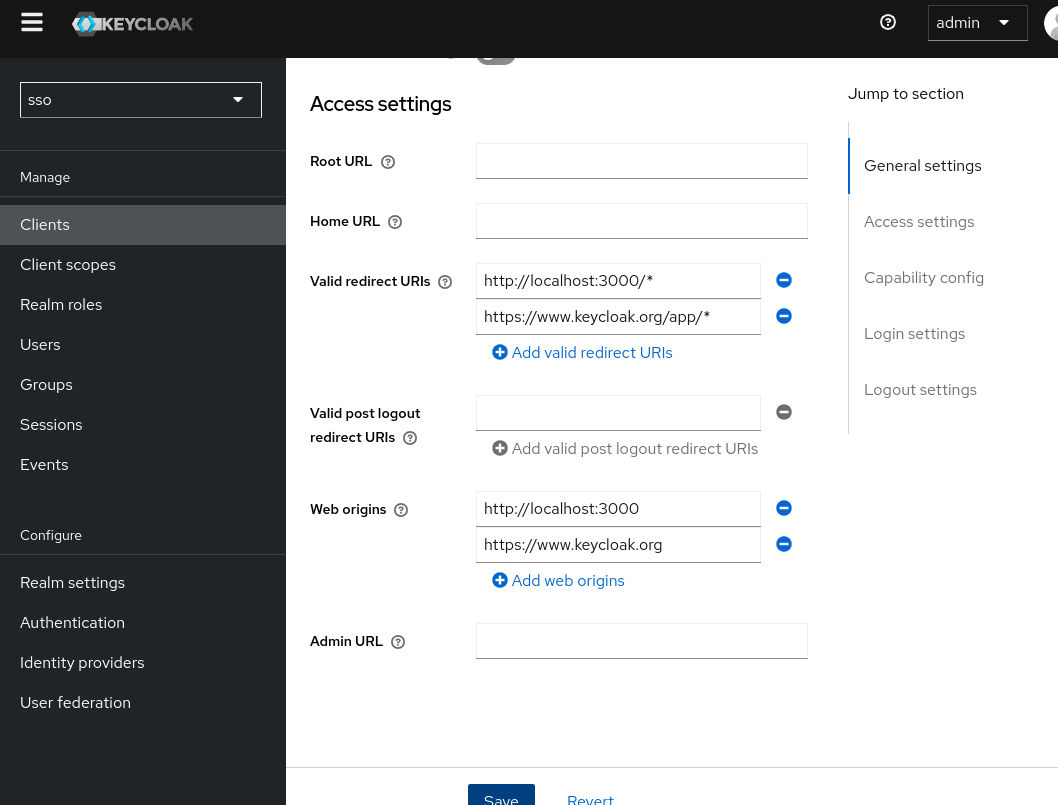
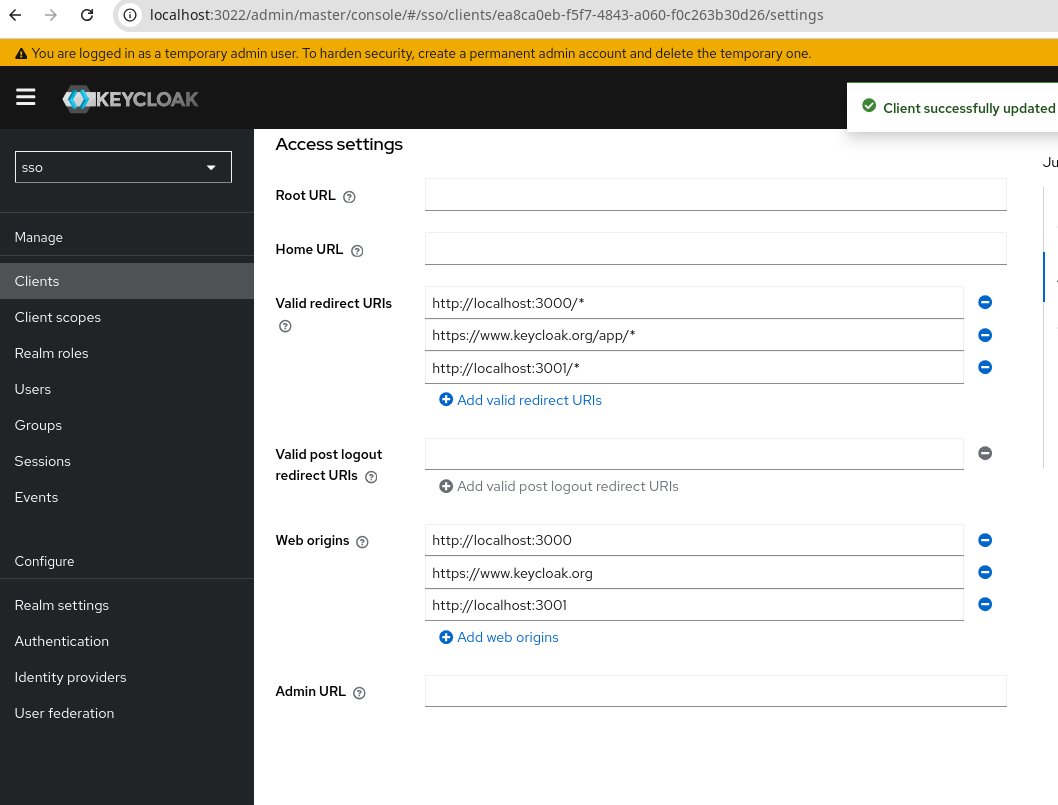
Arrange file structure, Add api usage

diff --git a/keycloak-vue-express-ts/be/src/index.ts b/keycloak-vue-express-ts/be/src/index.ts
@@ -5,10 +5,12 @@ import express, { Express, Request, Response } from 'express'
 import {initPublicKey,initPublicKeyOnline,verifyRoles, verify,verifyOnline,getDecodeToken} from './auth'
 const app: Express = express()
 const port: number = Number(process.env.PORT) || 80;
+
 app.use(cors());
 app.use(express.json()); // ‘application/json’ 
 app.use(express.raw());  // ‘application/octet-stream’ 
 app.use(express.urlencoded({ extended: true }));
+app.use(express.static('static'));
 
 (async()=>{ //simulate top level await
   let isInit = (
@@ -20,11 +22,14 @@ app.use(express.urlencoded({ extended: true }));
   }
   app.get('/api/profile',verify, (req: Request, res: Response) => {
     let dt = getDecodeToken(req)
-    console.log(dt?.role)
+    console.log(dt)
+    // console.log(dt?.role)
     res.json(dt)
   })
   app.get('/api/admin_profile',verifyRoles(["admin"]), (req: Request, res: Response) => {
     let dt = getDecodeToken(req)
+    // console.log(dt?.role)
+    console.log("This is admin")
     console.log(dt?.role)
     res.json(dt)
   })

diff --git a/keycloak-vue-express-ts/be/static/js-console.html b/keycloak-vue-express-ts/be/static/js-console.html
@@ -17,7 +17,10 @@
 
   <html>
     <head>
-        <script src="http://192.168.2.101:3022/js/keycloak.js"></script>
+        <!--
+        <script src="http://localhost:3022/js/keycloak.js"></script>
+        -->
+        <script src="https://cdn.jsdelivr.net/npm/keycloak-js@26.0.6/lib/keycloak.js"></script>
     </head>
     <body>
     

diff --git a/keycloak-vue-express-ts/Readme.md b/keycloak-vue-express-ts/Readme.md
@@ -1,68 +1,29 @@
 # Keycloak Vue Express
-ตัวอย่างการใช้ Keycloak(26.0.6) ร่วมกับ Vue และ Express 
-
-## Keycloak
-```
-cd keycloak
-mkdir data_keycloak
-chmod 777 data_keycloak
-docker compose up -d
-```
-Keycloak รุ่นใหม่(26 ขึ้นไป) client ใช้ http ได้แค่ localhost นอกนั้นควรเป็น https
-- แก้ไขค่า url ไฟล์ be/static/js-console.html be/static/keycloak.json ถ้า keycloak ไม่ได้รันที่ http://localhost:3022 
-
-- ไปที่หน้าเวป http://localhost:3022 ใช้ยูสเซอร์ admin รหัสผ่าน admin 
-- สร้าง realms sso 
-- สร้าง client, Client type: OpenID Connect, Client ID:express-client,
-![alt text](keycloak/img/create-client.png)
-![alt text](keycloak/img/setup-client.png)
-
-- สร้างยูสเซอร์ oom สำหรับ Realms sso พร้อมสร้างรหัสผ่าน ทำการ logout จาก admin แล้วทดสอบ login ยูสเซอร์ที่ http://localhost:3022/sso/account
-![alt text](keycloak/img/create-user.png)
-![alt text](keycloak/img/set-password.png)
-- ทดสอบไปที่ https://www.keycloak.org/app/
-![alt text](keycloak/img/keycloak_app.png)
-
-
-
-## Frontend 
-VUE.js ทำ Authentication จะ Redirect ไป login ที่ keyloak.local , Realms sso, client ชื่อ express-client  
-- [KeyclakService.ts](./fe/src/services/KeycloakService.ts) ใช้จัดการ Authentication ทั้งหมดด้วย keycloak-js คอนฟิกอยู่ที่ [keyloak.json](./fe/public/keycloak.json)
-- [httpservice.ts](./fe/src/services/HttpService.ts) สำหรับทำ HTTP request ผ่าน axios จะใส่ token ใน header ให้
-- [keycloak.json](./fe/public/keycloak.json) เซ็ตค่า realms, auth-server-url และ resource ให้ถูกต้อง
+ตัวอย่างการใช้ Keycloak(26.0.6) ร่วมกับ Vue และ Express การตั้งค่าและใช้งาน Keycloak ดูที่ [Keyloak.md](./keycloak/Keycloak.md)
 
 ## Backend
 Node.js + Express จะตรวจสอบ token ทำ Authorization ใช้ jsonwebtoken ในการตรวจสอบ
-ให้สำเนา [.env.sample](./be/env.sample) ไปเป็น .env แล้วแก้ค่าให้เหมาะสม ควรใช้ค่า REALM_URL เป็นหลัก 
-- [index.ts](./be/src/index.ts) เป็นตัวอย่างการใช้งาน
-- [auth.ts](./be/src/auth.ts) เป็น Express Middleware ใช้เพื่อตรวจสอบ Token 
+ให้สำเนา [.env.sample](./be/env.sample) ไปเป็น .env แล้วแก้ค่าให้เหมาะสม โค้ดจะเอา Public key มาเองแต่ถ้าต้องการดูค่าให้ไปที่หน้า Realms setting/Keys/RS256 กดปุ่ม Public Key
+![Realms Publickey](keycloak/img/realms-publickey.png)
+- [index.ts](./be/src/index.ts) เป็นโปรแกรมหลัก
+- [auth.ts](./be/src/auth.ts) เป็น Express Middleware ใช้เพื่อตรวจสอบ และจัดการ Token 
   - initPublicKeyOnline(url) อ่าน Public Key จากเซิร์ฟเวอร์ keycloak แล้วเซ็ตในตัวแปร private ของโมดูล
   - initPublicKey(key) เซ็ต Private key ในตัวแปร private ของโมดูล 
-  - verify() ใช้ public key ได้จากที่เซ็ตในตัวแปรแวดล้อม PUBLICKEY หรือขอที่ realms ที่อยู่ในตัวแปร REALM_URL ตรงๆ  keycloak เก็บ public key ที่ "Realms Settings/Keys" ตรง RS256
+  - verify() ตรวจสอบว่ายูสเซอร์ login หรือไม่ (มี token)
   - verifyOnline() จะเอา token จาก Frontend ไปตรวจสอบที่ ${REALM_URL}/protocol/openid-connect/userinfo สำหรับการทำงานทั่วไปควรหลีกเลี่ยงวิธีนี้ เพราะเสียเวลาเพิ่ม request ไปและกลับ ทุกๆการ request แต่น่าจะเหมาะกับความปลอดภัยสูงสุดสามารถตรวจสอบ token ที่โดน backlist ก่อนที่จะ refresh ใหม่
   - getDecodeToken(req: Request) ทำ decode โดยไม่ verify ทำจาก req เสมอไม่เก็บเป็นตัวแปรภายในเพื่อกัน Race Condition  ถ้าอยากส่งข้อมูลให้ middleware ถัดไปให้แนะนำให้ดู[ตัวอย่างนี้](https://copyprogramming.com/howto/expressjs-with-typescript-passing-data-between-middlewares) function นี้ใช้วิธีคล้าย Solution 3  ,Note: [res.locals](https://expressjs.com/en/api.html#res.locals) ใช้กับ templates rendered น่าจะไม่เหมาะเท่าไหร่
 
 
 Note: ใช้ [node-fetch-commonjs](https://www.npmjs.com/package/node-fetch-commonjs) แทน [node-fetch](https://github.com/node-fetch/node-fetch) เพราะว่า TypeScript แปลงเป็น JS แบบ commonjs ที่ node-fetch ไม่รองรับ และไม่ใช้ [request](https://www.npmjs.com/package/request) เพราะ deplicate ไปแล้ว(หลายตัวอย่างใช้กัน)
 
-## Setup frontend
-สร้างโปรเจ็ก Vite+Vue ชื่อ fe
-```bash
-npm create vite@latest
-cd fe
-npm install
-npm i keycloak-js@26.0.6 axios
-npm run dev
-```
+## Frontend 
+VUE.js จะ redirect ไป keycloak ทำ Authentication เสร็จจะ Redirect กลับมา แล้วจะเรียก API ไปที่ Backend
+- [KeyclakService.ts](./fe/src/services/KeycloakService.ts) ใช้จัดการ Authentication ทั้งหมดด้วย keycloak-js 
+คอนฟิกอยู่ที่ [.env](./be/env.sample)
+- [httpservice.ts](./fe/src/services/HttpService.ts) สำหรับทำ HTTP request ผ่าน axios จะใส่ token ใน header ให้
+- [keycloak.json](./fe/public/keycloak.json) เซ็ตค่า realms, auth-server-url และ resource ให้ถูกต้อง
 
-## Setup Backend
-```bash
-cd be
-npm init -y
-npm i express nodemon jsonwebtoken node-fetch-commonjs dotenv
-npm i -D typescript @types/node @types/express ts-node @types/jsonwebtoken
-```
-อ่านเพิ่ม
+## อ่านเพิ่ม
 - [Keycloak - A gentle introduction to Keycloak using Vite+React, NodeJS](https://www.youtube.com/watch?v=5z6gy4WGnUs)
 - [Secure Vue.js app with Keycloak](https://medium.com/keycloak/secure-vue-js-app-with-keycloak-94814181e344)
 - [JWT Authorization and Authentication, Node, Express, and Vue](https://dev.to/kevin_odongo35/jwt-authorization-and-authentication-node-express-and-vue-2p8c)

diff --git a/keycloak-vue-express-ts/keycloak/Keycloak.md b/keycloak-vue-express-ts/keycloak/Keycloak.md
@@ -1,0 +1,71 @@
+# Keycloak
+
+ติดตั้งด้วย [compose.yaml](./compose.yaml)
+```
+cd keycloak
+mkdir data_keycloak
+chmod 777 data_keycloak
+docker compose up -d
+```
+Note: Keycloak รุ่นใหม่(น่าจะ 26+) บังคับ HTTPS สำหรับ client ยกเว้น localhost ถึงจะใช้ http ได้(TODO ตรวจสอบอีกที)
+- Client อย่างง่าย: be/static/js-console.html จะเรียกใช้ be/static/keycloak.json ให้แก้ให้เหมาะสม(โค้ดตัวอย่างนี้รันไม่ได้กับ 26.x.x กำลังจะแก้ให้ใช้ได้) 
+
+- ไปที่หน้าเวป http://localhost:3022 ใช้ยูสเซอร์ admin รหัสผ่าน admin 
+- สร้าง realms sso ทดสอบด้วยลิงค์นี้ http://localhost:3022/realms/sso
+- สร้าง client ตั้งค่าดังนี้ Client type: OpenID Connect, Client ID:express-client,
+![alt text](img/create-client.png)
+- ตั้งค่าของ express-client เป็น URL ที่ยอมให้ Redirect มาหลังทำการ login, และ เปิด CORS สำหรับโดเมนของ Frontend , localhost:3000(FE Vue.js), keycloak.org(แอปทดสอบของ keycloak), localhost:3001(Client อย่างง่าย)
+![alt text](img/setup-client.png)
+
+- สร้าง Role สำหรับ client นี้ไปที่ Clients/express-client/Roles
+![alt text](img/client-role.png)
+
+
+- Optional: ปกติ access token มีค่าเยอะมาก ทำให้ header มีขนาดใหญ่ มีฟีเจอร์หนึ่งที่ทำให้ token มีขนาดเล็กลงไปมาก Client/express-client/Advanced/Always use lightweight access token: On
+![access token ขนาดเล็ก](img/lightweight-access-token.png)
+
+ข้อควรระวัง ถ้าเลือกใช้ออปชั่นนี้แทบจะไม่มีค่าไปแสดงใน token เลย ถ้าต้องการ username ไปแสดงตรง Client Scopes/profile/Mappers/username ใน ให้เลือก Add to lightweight access token 
+- Role กำหนดได้สองที่คือใน Realms หรือ Client แนะนำให้ใช้ของ cleint จะได้ไม่ปนกับของ Realms Role ที่มีอยู่เดิม จะใช้ mapper เพื่อนำค่า role ไปแสดงในตำแหน่งที่ต้องการใน token 
+  - เลือก Client Scopes/roles/Mappers แล้วกดปุ่ม Add mapper เลือก By configuration
+เลือก User Client Role
+  - Name: Root Roles(ชื่ออะไรก็ได้)
+  - Client ID: express-client
+  - Token Clame Name: role
+  - Add to lightweight access token: On 
+  ![alt text](img/root-roles.png)
+
+- สร้างยูสเซอร์ oom สำหรับ Realms sso ![สร้างยูสเซอร์](img/create-user.png)
+- กำหนดรหัสผ่าน ทดสอบการ login ได้ด้วยลิงค์นี้ http://localhost:3022/realms/sso/account
+![กำหนดรหัสผ่าน](img/set-password.png)
+
+
+- กำหนด Role ให้ยูสเซอร์ไปที่ Users/oom/Role mapping/Assign role/Filter by client ค้นหา dev แล้วเลือก Assign
+![กำหนด Role](img/assign-role.png)
+- ทำอีกครั้งสำหรับ admin จะได้ดังภาพ ควรสร้างอีกยูสเซอร์ที่มี role เป็น dev อย่างเดียวไว้ทดสอบด้วย
+![กำหนด admin dev](img/assign-roles.png)
+
+- ทดสอบไปที่ https://www.keycloak.org/app/ ใช้ยูสเซอร์ oom เพื่อ login เข้าระบบ
+
+![keycloak test app](img/keycloak_app.png)
+
+
+- ทดสอบ login ผ่าน api เพื่อเอา access_token
+```bash
+curl -H 'Content-Type: application/x-www-form-urlencoded' \
+  -d "client_id=admin-cli" \
+  -d "username=oom" \
+  -d "password=oom" \
+  -d "grant_type=password" \
+  "http://localhost:3022/realms/sso/protocol/openid-connect/token" 
+```
+- ใช้ REST Client ในไฟล์ [api.http](./api.http) access token จะหมดอายุค่อนข้างเร็ว สามารถกำหนดเวลาได้เองที่  Clients>admin-cli>Advanced>Access Token Lifespan
+- สำหรับ Backend เรียก API จะใช้ secret ให้สร้าง client เช่นชื่อ b2b-client, Client authentication: On, ปิด Authentication flow ให้หมดเปิดเฉพาะ Service account roles เมื่อสร้างแล้วก็อปค่า Clients/b2b-client/Credentials/Client Secret ไปใช้
+จะมียูสเซอร์ service-account-b2b-client เกิดขึ้นมา ให้เพิ่ม role ที่เหมาะสมกับเพื่อใช้งานได้เหมือนยูสเซอร์ปกติ เช่นเพิ่ม manage-realm, manage-users
+```
+curl -H 'Content-Type: application/x-www-form-urlencoded' \
+-d 'client_id=b2b-client' \
+-d 'client_secret=n4LacxK00hfHCSKZCvY64IqDhAL0EkL0' \
+-d 'grant_type=client_credentials' \
+'http://localhost:3022/realms/sso/protocol/openid-connect/token'
+```
+![Client Authentication](img/client-authentication.png)
